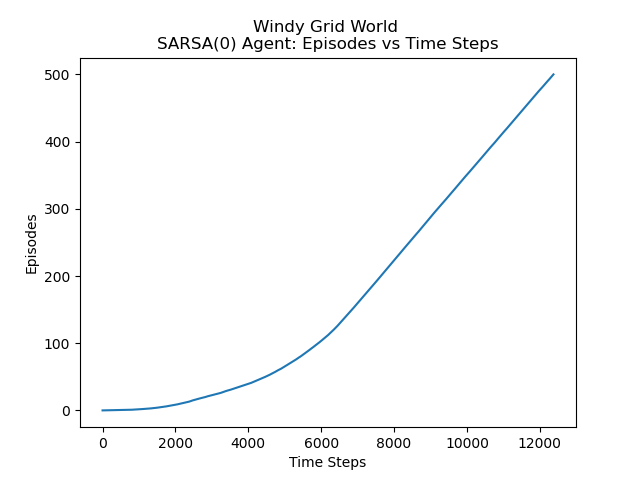
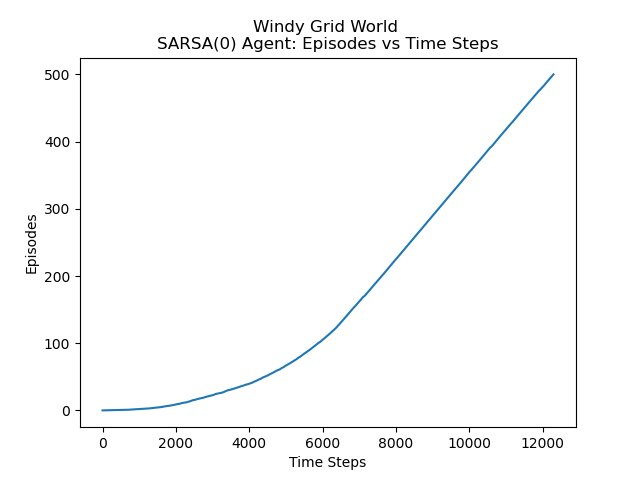
task 5 done

diff --git a/cs747-pa3/main.py b/cs747-pa3/main.py
@@ -1,5 +1,5 @@
 from envs import WindyGridworldEnv
-from agents import SarsaAgent
+from agents import SarsaAgent, QLearningAgent, ExpectedSarsaAgent
 from experiment import Experiment
 
 from argparse import ArgumentParser
@@ -13,19 +13,24 @@ parser.add_argument("--num_episodes", type=int, default=500, help="number of epi
 parser.add_argument("--min_seed", type=int, default=0, help="start value of seed")
 parser.add_argument("--seed_range", type=int, default=20, help="number of seed values from min_seed")
 
-def run_sarsa(num_episodes=500, min_seed=0, seed_range=20, kings_move_allowed=False, stochastic_wind=False, num_steps_lim=100000, info=""):
+def run(algo="sarsa", num_episodes=500, min_seed=0, seed_range=20, kings_move_allowed=False, stochastic_wind=False, num_steps_lim=100000, info=""):
     time_steps = []
     episode_lengths = []
     episode_rewards = []
 
     print("=======================================================================================")
-    print("Running Sarsa(0) on Windy GridWorld {info} [Seeds = {s}-{e}]".format(info=info, s=min_seed, e=min_seed + seed_range - 1))
+    print("Running {algo} agent on windy gridworld {info} [seeds = {s}-{e}]".format(algo=algo, info=info, s=min_seed, e=min_seed + seed_range - 1))
     print("=======================================================================================")
     for seed in range(min_seed, min_seed + seed_range):
         env = WindyGridworldEnv(kings_move_allowed, seed=seed, stochastic_wind=stochastic_wind)
-        agent = SarsaAgent(actions=range(env.nA), seed=seed)
+        if algo == "sarsa":
+            agent = SarsaAgent(actions=range(env.nA), seed=seed)
+        elif algo == "q-learning":
+            agent = QLearningAgent(actions=range(env.nA), seed=seed)
+        elif algo == 'expected-sarsa':
+            agent = ExpectedSarsaAgent(actions=range(env.nA), seed=seed)
         experiment = Experiment(env, agent)
-        expt_time_steps, expt_episode_lengths, expt_episode_rewards = experiment.run_sarsa(num_episodes, num_steps_lim)
+        expt_time_steps, expt_episode_lengths, expt_episode_rewards = experiment.run(num_episodes, num_steps_lim, algo=algo)
         time_steps.append(expt_time_steps)
         episode_lengths.append(expt_episode_lengths)
         episode_rewards.append(expt_episode_rewards)
@@ -67,30 +72,70 @@ def plot_sarsa(task, num_episodes, time_steps, episode_lengths, episode_rewards,
     plt.plot(np.arange(num_episodes+1), episode_rewards)
     plt.savefig("images/task_{}_extra_2.png".format(task))
 
-def task2(num_episodes=500, min_seed=0, seed_range=50, res=False):
-    time_steps, episode_lengths, episode_rewards = run_sarsa(num_episodes, min_seed=min_seed, seed_range=seed_range)
+def task2(num_episodes=500, min_seed=0, seed_range=20, res=False):
+    time_steps, episode_lengths, episode_rewards = run("sarsa", num_episodes, min_seed=min_seed, seed_range=seed_range)
     plot_sarsa(2, num_episodes, time_steps, episode_lengths, episode_rewards)
     if res:
         return time_steps, episode_lengths, episode_rewards
 
-def task3(num_episodes=500, min_seed=0, seed_range=50, res=False):
-    time_steps, episode_lengths, episode_rewards = run_sarsa(num_episodes, min_seed=min_seed, seed_range=seed_range, kings_move_allowed=True, info="(King's Moves Allowed)")
+def task3(num_episodes=500, min_seed=0, seed_range=20, res=False):
+    time_steps, episode_lengths, episode_rewards = run("sarsa", num_episodes, min_seed=min_seed, seed_range=seed_range, kings_move_allowed=True, info="(King's Moves Allowed)")
     plot_sarsa(3, num_episodes, time_steps, episode_lengths, episode_rewards, info="(King's Moves Allowed)")
     if res:
         return time_steps, episode_lengths, episode_rewards
 
-def task4(num_episodes=500, min_seed=0, seed_range=50, res=False):
-    time_steps, episode_lengths, episode_rewards = run_sarsa(num_episodes, min_seed=min_seed, seed_range=seed_range, stochastic_wind=True, kings_move_allowed=True, info="(Stochastic Winds, with King's Moves Allowed)")
+def task4(num_episodes=500, min_seed=0, seed_range=20, res=False):
+    time_steps, episode_lengths, episode_rewards = run("sarsa", num_episodes, min_seed=min_seed, seed_range=seed_range, stochastic_wind=True, kings_move_allowed=True, info="(Stochastic Winds, with King's Moves Allowed)")
     plot_sarsa(4, num_episodes, time_steps, episode_lengths, episode_rewards, info="(Stochastic Winds, with King's Moves Allowed)")
     if res:
         return time_steps, episode_lengths, episode_rewards
 
-def combined_plots(num_episodes=500, min_seed=0, seed_range=50):
+def task5(num_episodes=500, min_seed=0, seed_range=20, res=False):
+    ts_sarsa, el_sarsa, er_sarsa = task2(num_episodes, min_seed, seed_range, res=True)
+    ts_q, el_q, er_q = run("q-learning", num_episodes, min_seed=min_seed, seed_range=seed_range)
+    ts_exp_sarsa, el_exp_sarsa, er_exp_sarsa = run("expected-sarsa", num_episodes, min_seed=min_seed, seed_range=seed_range)
+
+    plt.figure(figsize=(16,8))
+    plt.ylabel("Episodes")
+    plt.xlabel("Time Steps")
+    plt.title("Windy GridWorld (Comparison of Learning Algorithms)\nEpisodes vs Time Steps")
+    plt.plot(ts_sarsa, np.arange(num_episodes + 1), label="Sarsa")
+    plt.plot(ts_q, np.arange(num_episodes + 1), label="Q-Learning")
+    plt.plot(ts_exp_sarsa, np.arange(num_episodes + 1), label="Expected Sarsa")
+    plt.legend()
+
+    if not os.path.exists("images"):
+        os.makedirs("images")
+
+    plt.savefig("images/task_5.png")
+
+    plt.figure()
+    plt.ylabel("Episode Length")
+    plt.xlabel("Episode")
+    plt.title("Windy GridWorld (Comparison of Learning Algorithms)\nEpisode Length vs Episode")
+    plt.plot(np.arange(num_episodes+1), el_sarsa, label="Sarsa")
+    plt.plot(np.arange(num_episodes+1), el_q, label="Q-Learning")
+    plt.plot(np.arange(num_episodes+1), el_exp_sarsa, label="Expected Sarsa")
+    plt.legend()
+    plt.savefig("images/task_5_extra_1.png")
+
+    plt.figure()
+    plt.ylabel("Episode Reward")
+    plt.xlabel("Episode")
+    plt.title("Windy GridWorld (Comparison of Learning Algorithms)\nEpisode Reward vs Episode")
+    plt.plot(np.arange(num_episodes+1), er_sarsa, label="Sarsa")
+    plt.plot(np.arange(num_episodes+1), er_q, label="Q-Learning")
+    plt.plot(np.arange(num_episodes+1), er_exp_sarsa, label="Expected Sarsa")
+    plt.legend()
+    plt.savefig("images/task_5_extra_2.png")
+
+
+def combined_plots(num_episodes=500, min_seed=0, seed_range=20):
     ts, el, er = task2(num_episodes, min_seed, seed_range, res=True)
     ts_king, el_king, er_king = task3(num_episodes, min_seed, seed_range, res=True)
     ts_stoch_king, el_stoch_king, er_stoch_king = task4(num_episodes, min_seed, seed_range, res=True)
 
-    ts_stoch, el_stoch, er_stoch = run_sarsa(num_episodes, min_seed=min_seed, seed_range=seed_range, stochastic_wind=True, info="(Stochastic Winds)")
+    ts_stoch, el_stoch, er_stoch = run("sarsa", num_episodes, min_seed=min_seed, seed_range=seed_range, stochastic_wind=True, info="(Stochastic Winds)")
 
 
     plt.figure(figsize=(12, 8))
@@ -140,6 +185,8 @@ def main():
         task3(args.num_episodes, args.min_seed, args.seed_range)
     elif args.task == 4:
         task4(args.num_episodes, args.min_seed, args.seed_range)
+    elif args.task == 5:
+        task5(args.num_episodes, args.min_seed, args.seed_range)
     elif args.task == 0:
         combined_plots(args.num_episodes, args.min_seed, args.seed_range)
     else:

diff --git a/cs747-pa3/agents.py b/cs747-pa3/agents.py
@@ -63,12 +63,82 @@ class SarsaAgent(EpsilonGreedyAgent):
         
         """
         SARSA Update
-        Q(s,a) <- Q(s,a) + alpha * (reward + gamma * Q(s',a') - Q(s,a))
+        Q(s,a) <- Q(s,a) + alpha * td_delta
         or
         Q(s,a) <- Q(s,a) + alpha * (td_target - Q(s,a))
         or
-        Q(s,a) <- Q(s,a) + alpha * td_delta
+        Q(s,a) <- Q(s,a) + alpha * ((reward + gamma * Q(s',a')) - Q(s,a))
         """
         td_target = reward + self.gamma * self.Q[(state2, action2)]
+        td_delta = td_target - self.Q[(state1, action1)]
+        self.Q[(state1, action1)] += self.alpha * td_delta
+
+
+class QLearningAgent(EpsilonGreedyAgent):
+    def __init__(self, actions, epsilon=0.01, alpha=0.5, gamma=1, seed=0):
+        super(QLearningAgent, self).__init__(actions, epsilon, alpha, gamma, seed)
+        np.random.seed(seed)
+
+    # Learn using Q-Learning Update
+    def learn(self, state1, action1, reward, state2, action2=None):
+        if (state1, action1) not in self.Q.keys():
+            self.Q[(state1, action1)] = 0
+        
+        """
+        Q-learning Update:
+        Q(s,a) <- Q(s,a) + alpha * td_delta
+        or
+        Q(s,a) <- Q(s,a) + alpha * (td_target - Q(s,a))
+        or
+        Q(s,a) <- Q(s,a) + alpha * ((reward + gamma * max_a'(Q(s', a'))) - Q(s,a))
+        """
+        Q_state2_max = float('-inf')
+        for a in self.actions:
+            if (state2, a) not in self.Q.keys():
+                self.Q[(state2, a)] = 0
+            
+            if self.Q[(state2, a)] > Q_state2_max:
+                Q_state2_max = self.Q[(state2, a)]
+        
+        td_target = reward + self.gamma * Q_state2_max
+        td_delta = td_target - self.Q[(state1, action1)]
+        self.Q[(state1, action1)] += self.alpha * td_delta
+
+class ExpectedSarsaAgent(EpsilonGreedyAgent):
+    def __init__(self, actions, epsilon=0.01, alpha=0.5, gamma=1, seed=0):
+        super(ExpectedSarsaAgent, self).__init__(actions, epsilon, alpha, gamma, seed)
+        np.random.seed(seed)
+
+    # Learn using Expected SARSA Update
+    def learn(self, state1, action1, reward, state2, action2=None):
+        if (state1, action1) not in self.Q.keys():
+            self.Q[(state1, action1)] = 0
+        
+        """
+        Expected SARSA Update
+        Q(s,a) <- Q(s,a) + alpha * td_delta
+        or
+        Q(s,a) <- Q(s,a) + alpha * (td_target - Q(s,a))
+        or
+        Q(s,a) <- Q(s,a) + alpha * ((reward + gamma * sum_a'(prob(a'|s') * Q(s',a'))) - Q(s,a))
+        """
+        prob = np.ones(self.num_actions) * (self.epsilon / self.num_actions)
+        
+        Q_state2_max = float('-inf')
+        best_a = None
+        for a in self.actions:
+            if (state2, a) not in self.Q.keys():
+                self.Q[(state2, a)] = 0
+            
+            if self.Q[(state2, a)] > Q_state2_max:
+                Q_state2_max = self.Q[(state2, a)]
+                best_a = a
+        prob[best_a] += (1 - self.epsilon)
+
+        expectation = 0
+        for a in self.actions:
+            expectation += prob[a] * self.Q[(state2, a)]
+
+        td_target = reward + self.gamma * expectation
         td_delta = td_target - self.Q[(state1, action1)]
         self.Q[(state1, action1)] += self.alpha * td_delta

diff --git a/cs747-pa3/experiment.py b/cs747-pa3/experiment.py
@@ -10,7 +10,7 @@ class Experiment(object):
         self.episode_reward = np.array([0])
         self.time_steps = np.array([0])
 
-    def run_sarsa(self, max_number_of_episodes=500, num_steps_lim=50000):
+    def run(self, max_number_of_episodes=500, num_steps_lim=50000, algo="sarsa"):
 
         time_step = 0
         # repeat for each episode
@@ -39,17 +39,27 @@ class Experiment(object):
                 # take action, observe reward and next state
                 next_state, reward, done = self.env.step(action)
                 
-                # choose next action from next state using policy derived from Q
-                next_action = self.agent.act(next_state)
+                if algo == "sarsa":
+                    # choose next action from next state using policy derived from Q
+                    next_action = self.agent.act(next_state)
                 
-                # agent learn (SARSA update)
-                self.agent.learn(state, action, reward, next_state, next_action)
+                    # agent learn (SARSA update)
+                    self.agent.learn(state, action, reward, next_state, next_action)
                 
-                # state <- next state, action <- next_action
-                state = next_state
-                action = next_action
+                    # state <- next state, action <- next_action
+                    state = next_state
+                    action = next_action
+                
+                elif algo == "q-learning" or algo =="expected-sarsa":
+                    # agent learn (Q-Learning or Expected Sarsa update)
+                    self.agent.learn(state, action, reward, next_state)
+                    
+                    # state <- next state
+                    state = next_state
+                    # choose action from state using policy derived from Q
+                    action = self.agent.act(state)
 
-                R += reward # accumulate reward - for display
+                R += reward # accumulate reward 
             
             self.episode_length = np.append(self.episode_length, t)                 # keep episode length
             self.episode_reward = np.append(self.episode_reward, R)                 # keep episode reward
